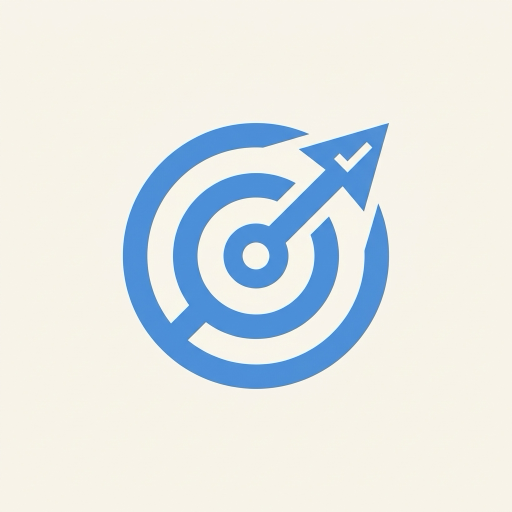
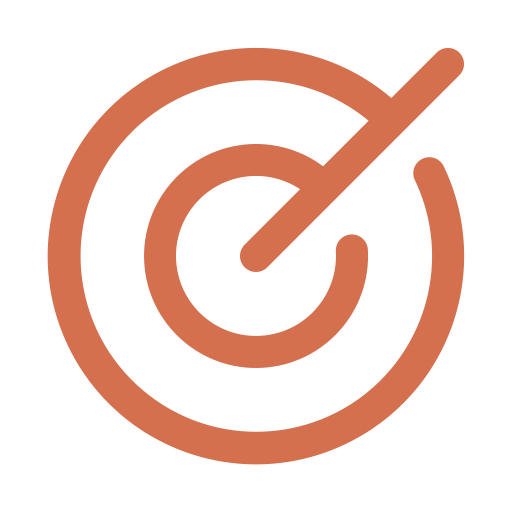
new ico

diff --git a/index.html b/index.html
@@ -2,7 +2,8 @@
 <html lang="es">
   <head>
     <meta charset="UTF-8" />
-    <link rel="icon" type="image/png" href="/icon-192.png" />
+    <link rel="icon" type="image/x-icon" href="/favicon.ico" />
+    <link rel="icon" type="image/svg+xml" href="/favicon.svg" />
     <meta name="viewport" content="width=device-width, initial-scale=1.0, maximum-scale=1.0, user-scalable=no" />
     <title>Blueprint</title>
     <meta name="theme-color" content="#FAF6EE" />